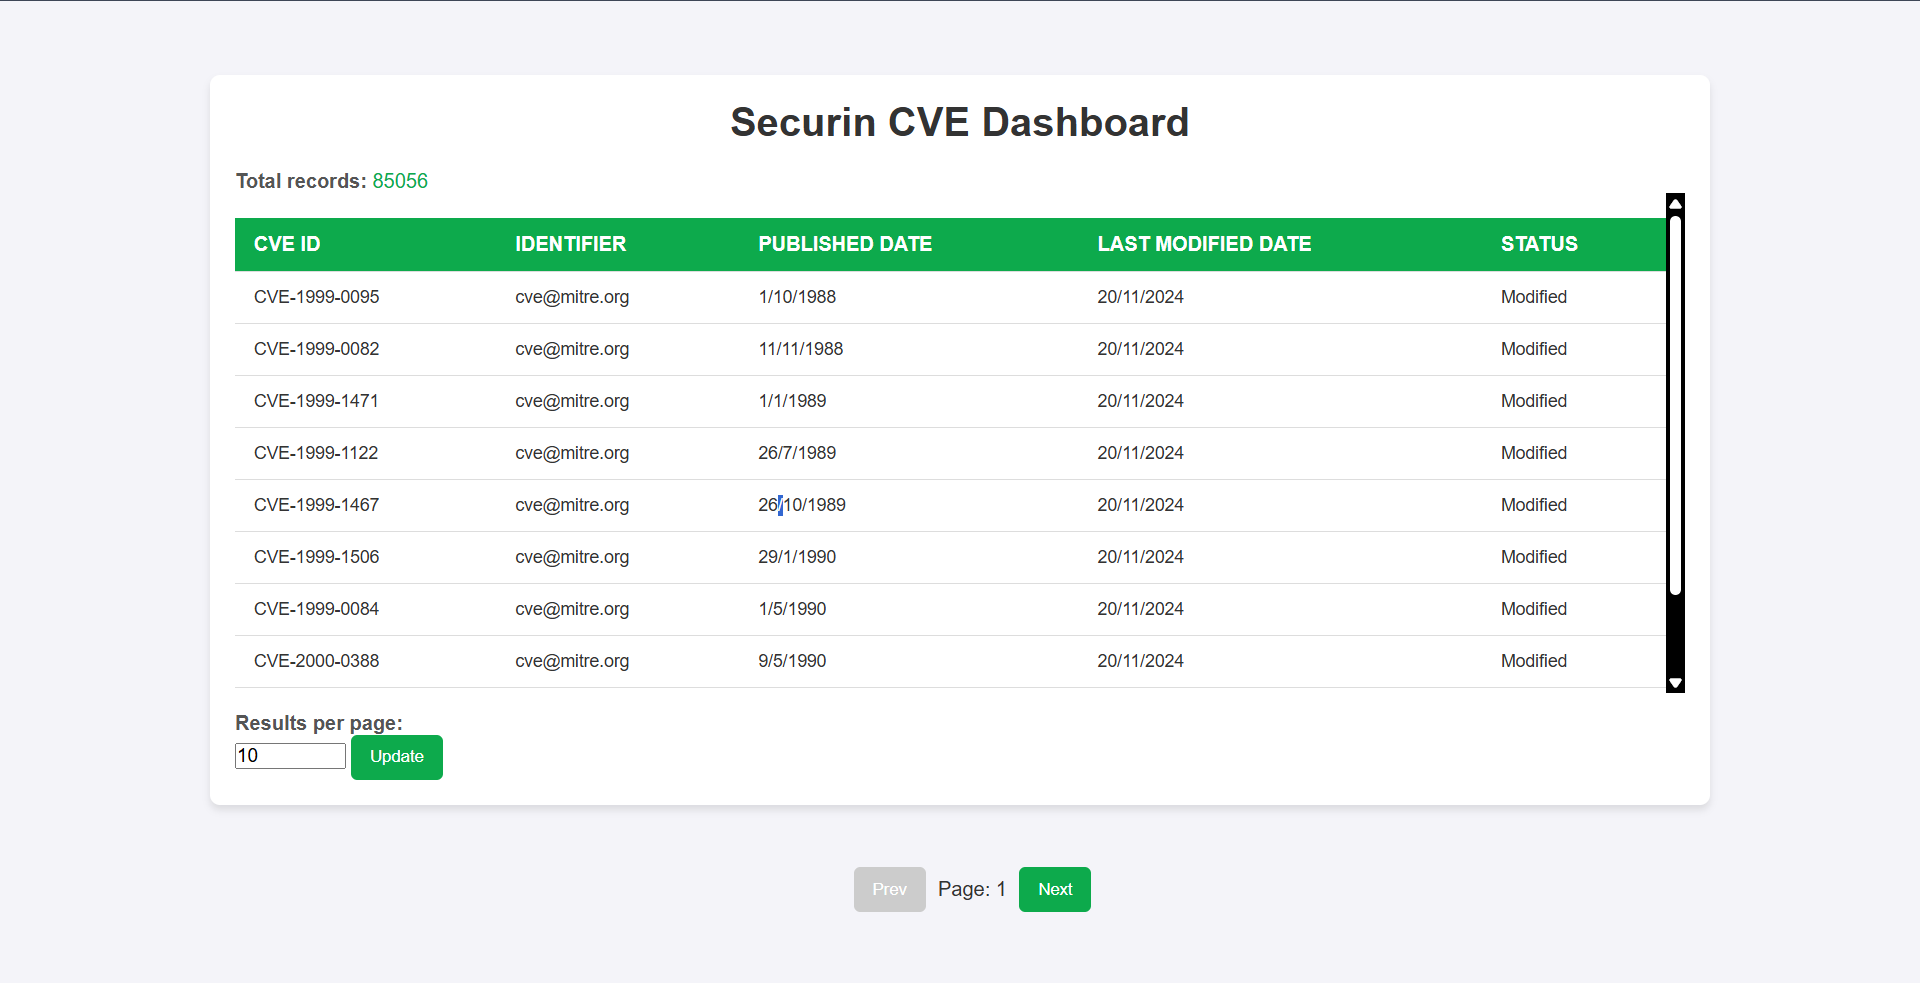
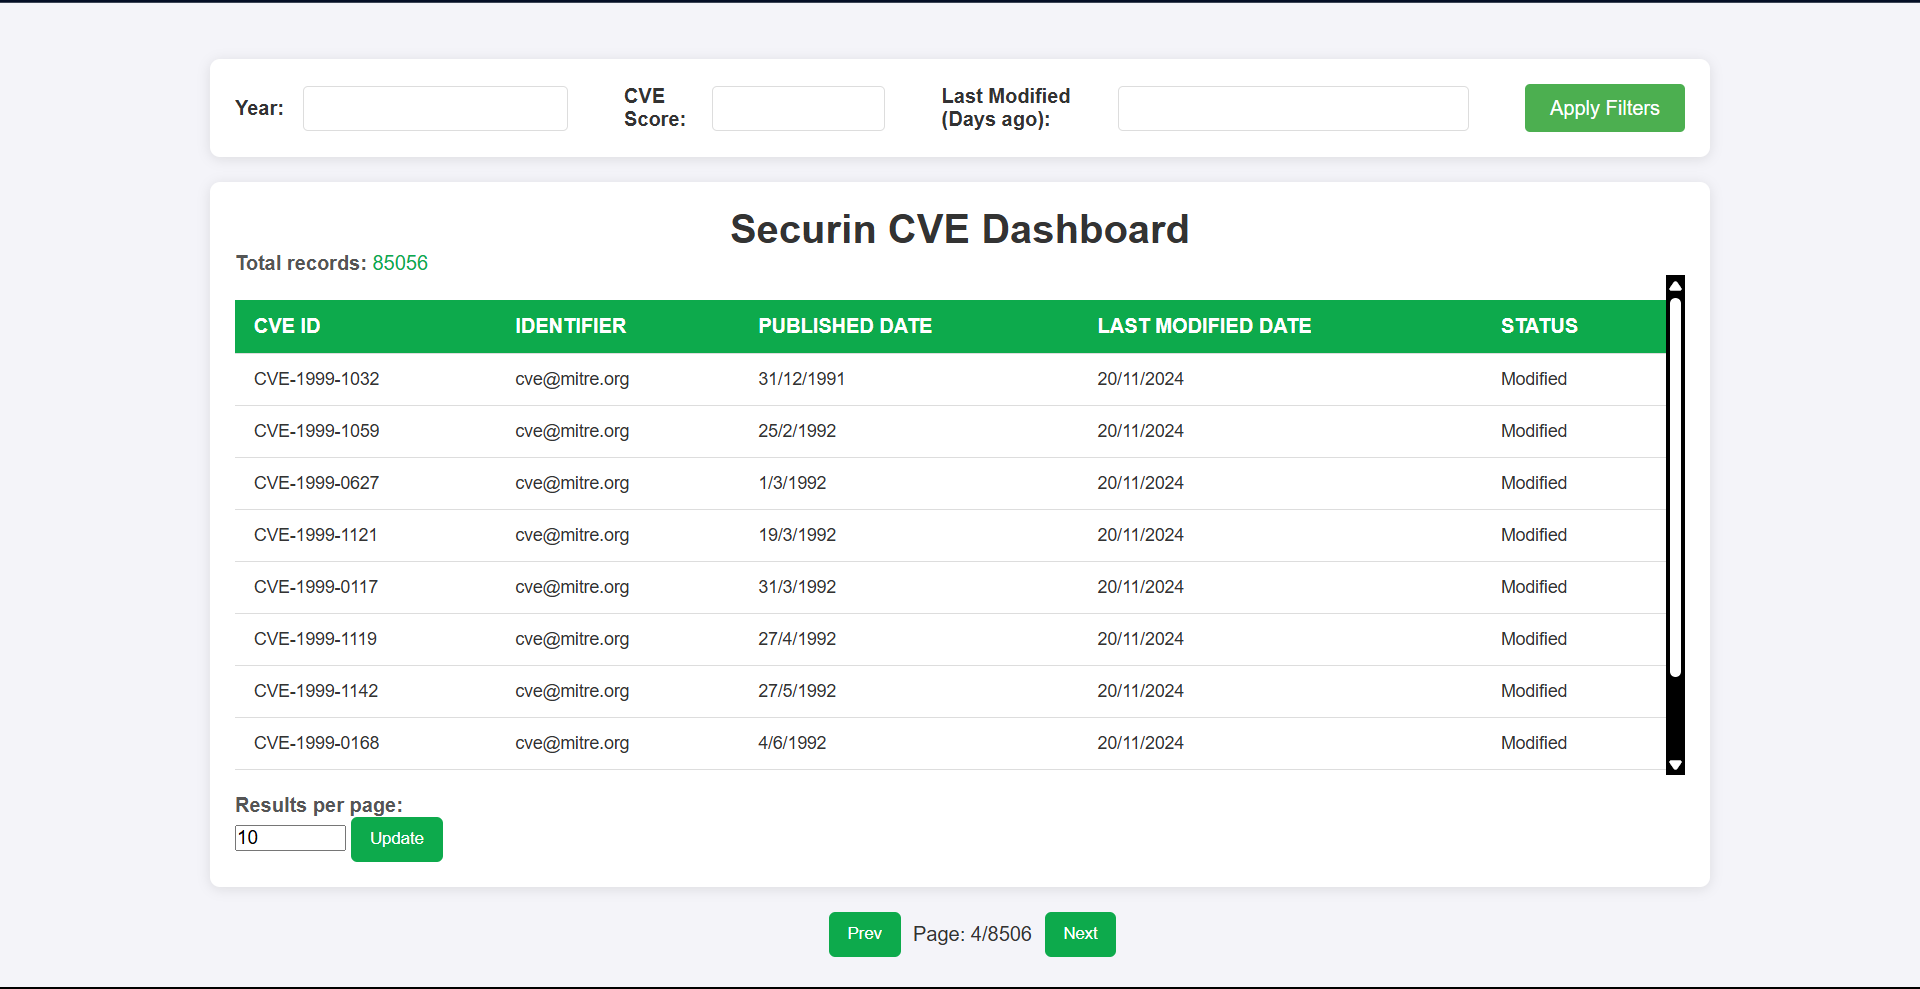
added filter functionality in the CVE Dashboard

diff --git a/script.js b/script.js
@@ -1,63 +1,94 @@
 let currentPage = 1;
 let limit = 10;
-let totalPages = 1; // Initialize totalPages
+let totalPages = 1; 
 let totalCount = 0;
 
 function fetchCVEData(page) {
-  fetch(
-    `https://securinserver.onrender.com/api/cve?page=${page}&limit=${limit}`
-  )
+  const year = document.getElementById("year").value;
+  const score = document.getElementById("score").value;
+  const days = document.getElementById("days").value;
+
+
+  let url = `https://securinserver.onrender.com/api/cve?page=${page}&limit=${limit}`;
+
+
+  if (year) {
+    url = `https://securinserver.onrender.com/api/cve/year/${year}?page=${page}&limit=${limit}`;
+  } else if (score) {
+    url = `https://securinserver.onrender.com/api/cve/score/${score}?page=${page}&limit=${limit}`;
+  } else if (days) {
+    url = `https://securinserver.onrender.com/api/cve/lastModified/${days}?page=${page}&limit=${limit}`;
+  }
+
+  fetch(url)
     .then((response) => response.json())
     .then((data) => {
-      const cveList = document.getElementById("cve-list");
-      cveList.innerHTML = `
-        <tr>
-          <th>CVE ID</th>
-          <th>IDENTIFIER</th>
-          <th>PUBLISHED DATE</th>
-          <th>LAST MODIFIED DATE</th>
-          <th>STATUS</th>
-        </tr>
-      `;
-
-      const totalresults = document.getElementById("total");
-      totalresults.innerHTML = `${data.pagination.totalCount}`;
-      totalCount = data.pagination.totalCount;
-
-      // Populate table with fetched CVE data
-      data.cves.forEach((cve) => {
-        const row = document.createElement("tr");
-        row.innerHTML = `
-          <td>${cve.cveId}</td>
-          <td>${cve.sourceIdentifier}</td>
-          <td>${new Date(cve.published).toLocaleDateString()}</td>
-          <td>${new Date(cve.lastModified).toLocaleDateString()}</td>
-          <td>${cve.vulnStatus}</td>
-        `;
-        row.addEventListener("click", () => {
-          window.location.href = `description.html?cveId=${cve.cveId}`; // Redirect to description page
-        });
-        cveList.appendChild(row);
-      });
-
-      // Update pagination controls
-      totalPages = data.pagination.totalPages;
-      document.getElementById(
-        "pageNumber"
-      ).innerText = `Page: ${page}/${totalPages}`;
-      document.getElementById("prevPage").disabled = page === 1;
-      document.getElementById("nextPage").disabled = page === totalPages;
+      if (data) {
+        displayCVEData(data);
+      } else {
+        console.error(data.message);
+      }
     })
     .catch((error) => console.error("Error fetching CVEs:", error));
 }
 
+// Function to display CVE data in the table
+function displayCVEData(data) {
+  console.log(data);
+  const cveList = document.getElementById("cve-list");
+  cveList.innerHTML = `
+    <tr>
+      <th>CVE ID</th>
+      <th>IDENTIFIER</th>
+      <th>PUBLISHED DATE</th>
+      <th>LAST MODIFIED DATE</th>
+      <th>STATUS</th>
+    </tr>
+  `;
+
+  const totalresults = document.getElementById("total");
+  totalresults.innerHTML = `${data.pagination.totalCount}`;
+  totalCount = data.pagination.totalCount;
+  currentPage = data.pagination.currentPage;
+  totalPages = data.pagination.totalPages;
+
+  // Populate table with fetched CVE data
+  if (Array.isArray(data.cves) && data.cves.length > 0) {
+    data.cves.forEach((cve) => {
+      const row = document.createElement("tr");
+      row.innerHTML = `
+        <td>${cve.cveId}</td>
+        <td>${cve.sourceIdentifier}</td>
+        <td>${new Date(cve.published).toLocaleDateString()}</td>
+        <td>${new Date(cve.lastModified).toLocaleDateString()}</td>
+        <td>${cve.vulnStatus}</td>
+      `;
+      row.addEventListener("click", () => {
+        window.location.href = `description.html?cveId=${cve.cveId}`; // Redirect to description page
+      });
+      cveList.appendChild(row);
+    });
+  } else {
+    cveList.innerHTML = "<tr><td colspan='5'>No data available</td></tr>";
+  }
+
+  // Update pagination controls
+  totalPages = data.pagination.totalPages;
+  document.getElementById(
+    "pageNumber"
+  ).innerText = `Page: ${currentPage}/${totalPages}`;
+  document.getElementById("prevPage").disabled = currentPage === 1;
+  document.getElementById("nextPage").disabled = currentPage === totalPages;
+}
+
+// Function to handle page changes (prev/next)
 function changePage(direction) {
   if (direction === "prev" && currentPage > 1) {
     currentPage--;
   } else if (direction === "next" && currentPage < totalPages) {
     currentPage++;
   }
-  fetchCVEData(currentPage);
+  fetchCVEData(currentPage); // Fetch data for the updated page
 }
 
 // Form submission event for updating records per page (limit)
@@ -75,6 +106,45 @@ document
       alert(`Please enter a value between 1 and ${totalCount}.`);
     }
   });
+
+// Function to apply filters
+async function applyFilters() {
+  const year = document.getElementById("year").value;
+  const score = document.getElementById("score").value;
+  const days = document.getElementById("days").value;
+
+  currentPage = 1;
+
+  try {
+    let url = `https://securinserver.onrender.com/api/cve?page=${currentPage}&limit=${limit}`;
+
+    if (year) {
+      url += `&year=${year}`;
+    }
+    if (score) {
+      url += `&score=${score}`;
+    }
+    if (days) {
+      url += `&days=${days}`;
+    }
+
+    const response = await fetch(url);
+    const data = await response.json();
+
+    if (response.ok) {
+      displayCVEData(data);
+    } else {
+      console.error(data.message);
+    }
+
+    // Clear input fields after applying filters
+    // document.getElementById("year").value = "";
+    // document.getElementById("score").value = "";
+    // document.getElementById("date").value = "";
+  } catch (error) {
+    console.error("Error applying filters:", error);
+  }
+}
 
 // Initial data load
 fetchCVEData(currentPage);

diff --git a/style.css b/style.css
@@ -1,4 +1,3 @@
-/* Basic reset and general styling */
 * {
     margin: 0;
     padding: 0;
@@ -23,13 +22,11 @@
     background-color: #fff;
     padding: 20px;
     border-radius: 8px;
-    box-shadow: 0 4px 6px rgba(0, 0, 0, 0.1);
-    margin-bottom: 30px;
+    box-shadow: 0 2px 10px rgba(0, 0, 0, 0.1);
   }
   
   h1 {
     text-align: center;
-    margin-bottom: 20px;
     color: #333;
   }
   
@@ -85,9 +82,9 @@
     background-color: #0daa4c;
     color: white;
     font-weight: bold;
-    position: sticky; /* Fixes the header */
-    top: 0; /* Keeps it at the top */
-    z-index: 2; /* Ensures it stays above the content */
+    position: sticky; 
+    top: 0; 
+    z-index: 2;
   }
   
   tr:hover {
@@ -155,6 +152,80 @@
   #pagination .active:hover {
     background-color: #26884d;
   }
+
+  /* Styling for the Filter Section */
+.filter {
+  margin: 20px auto;
+  padding: 20px;
+  background-color: #fff;
+  border-radius: 8px;
+  box-shadow: 0 2px 10px rgba(0, 0, 0, 0.1);
+  display: flex;
+  align-items: center;
+  justify-content: space-between;
+  width: 100%;
+  max-width: 1200px;
+}
+
+/* Label Styling */
+.filter label {
+  font-size: 16px;
+  margin-bottom: 8px;
+  font-weight: bold;
+}
+
+/* Input Field Styling */
+.filter input[type="number"] {
+  width: 100%;
+  padding: 8px;
+  border: 1px solid #ddd;
+  border-radius: 4px;
+  font-size: 16px;
+  transition: border-color 0.3s ease;
+}
+
+/* Input Field Focus Styling */
+.filter input[type="number"]:focus {
+  border-color: #4CAF50;
+  outline: none;
+}
+
+/* Button Styling */
+.filter button {
+  padding: 10px 20px;
+  background-color: #4CAF50;
+  color: white;
+  font-size: 16px;
+  border: none;
+  border-radius: 4px;
+  cursor: pointer;
+  transition: background-color 0.3s ease;
+}
+
+/* Button Hover Styling */
+.filter button:hover {
+  background-color: #45a049;
+}
+
+/* Adding some space between form elements */
+.filter label, .filter input[type="number"] {
+  width: 100%;
+}
+
+/* Space between the filter inputs and the button */
+.filter button {
+  width: auto;
+}
+
+.inner-input{
+  display: flex;
+  gap: 15px;
+  align-items: center;
+  justify-content: center;
+}
+
+
+
   
   /* Responsive design for smaller screens */
   @media screen and (max-width: 768px) {

diff --git a/index.html b/index.html
@@ -7,6 +7,31 @@
     <link rel="stylesheet" href="style.css" />
   </head>
   <body>
+    <div class="filter">
+      <div class="inner-input">
+        <span><label for="year">Year:</label></span>
+        <input type="number" id="year" name="year" />
+      </div>
+
+      <div class="inner-input">
+        <span><label for="score">CVE Score:</label></span>
+        <input
+          type="number"
+          id="score"
+          name="score"
+          step="0.01"
+          min="0"
+          max="10"
+        />
+      </div>
+
+      <div class="inner-input">
+        <span><label for="date">Last Modified (Days ago):</label></span>
+        <input type="number" id="days" name="date" />
+      </div>
+
+      <button onclick="applyFilters()">Apply Filters</button>
+    </div>
     <div class="container">
       <h1>Securin CVE Dashboard</h1>
       <strong>Total records: </strong>
